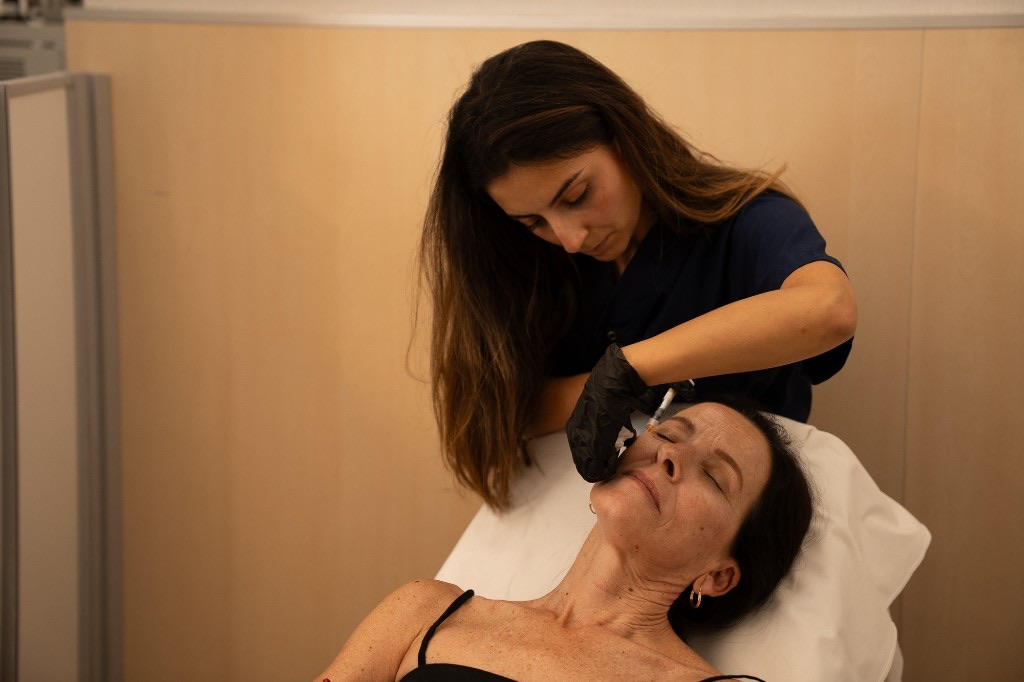
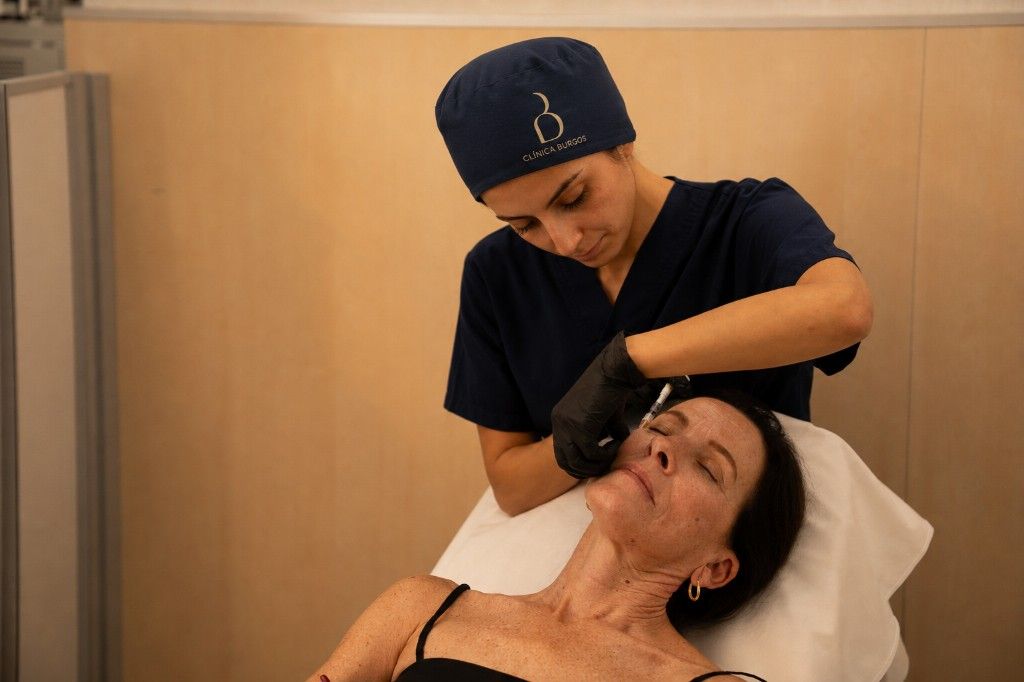
Update home SEO title and clinic photos on Quiénes somos.
Include Clínica Burgos in the Google result title, refresh estética/oftalmología images, and remove the dual photo strip from the about page.

diff --git a/src/pages/Doctora.tsx b/src/pages/Doctora.tsx
@@ -36,27 +36,6 @@ export function Doctora() {
         </div>
       </section>
 
-      <section className="section section-compact oft-pair-wrap">
-        <div className="shell oft-pair">
-          <figure>
-            <img
-              src="/images/dra-consulta.jpg"
-              alt="Dra. Teresa García Burgos en consulta, revisando un informe clínico"
-              loading="lazy"
-              decoding="async"
-            />
-          </figure>
-          <figure>
-            <img
-              src="/images/dra-exploracion.jpg"
-              alt="Exploración oftalmológica con lámpara de hendidura en Clínica Burgos, Alhaurín el Grande, Málaga"
-              loading="lazy"
-              decoding="async"
-            />
-          </figure>
-        </div>
-      </section>
-
       <section className="section section-cream">
         <div className="shell split-xl">
           <div className="panel-copy">
@@ -92,7 +71,7 @@ export function Doctora() {
         <div className="shell split-xl">
           <div className="panel-media tall">
             <img
-              src="/images/dra-estetica.jpg"
+              src="/images/dra-estetica.jpg?v=2"
               alt="Tratamiento de medicina estética facial en Clínica Burgos, Alhaurín el Grande, Málaga"
               loading="lazy"
               decoding="async"

diff --git a/index.html b/index.html
@@ -27,7 +27,7 @@
     <meta property="og:site_name" content="Clínica Burgos" />
     <meta
       property="og:title"
-      content="Oftalmología y Medicina Estética"
+      content="Clínica Burgos | Oftalmología y Medicina Estética"
     />
     <meta
       property="og:description"
@@ -35,7 +35,7 @@
     />
     <meta property="og:url" content="https://clinicaburgos.net/" />
     <meta property="og:image" content="https://clinicaburgos.net/images/espera.jpg" />
-    <title>Oftalmología y Medicina Estética</title>
+    <title>Clínica Burgos | Oftalmología y Medicina Estética</title>
   </head>
   <body>
     <div id="root"></div>

diff --git a/src/data/seo.ts b/src/data/seo.ts
@@ -11,7 +11,7 @@ export type SeoConfig = {
 export const seoByPath: Record<string, SeoConfig> = {
   "/": {
     path: "/",
-    title: "Oftalmología y Medicina Estética",
+    title: "Clínica Burgos | Oftalmología y Medicina Estética",
     description:
       "Clínica Burgos en Alhaurín el Grande (Málaga): oftalmólogo y medicina estética. Revisión oftalmológica, blefaroplastia, cataratas y rejuvenecimiento facial. Pide cita.",
     keywords:

diff --git a/src/pages/Oftalmologia.tsx b/src/pages/Oftalmologia.tsx
@@ -31,7 +31,7 @@ export function Oftalmologia() {
         <div className="shell split">
           <div className="panel-media panel-media-sm">
             <img
-              src="/images/oft-primera-consulta.jpg"
+              src="/images/oft-primera-consulta.jpg?v=2"
               alt="Primera consulta oftalmológica en Clínica Burgos, Alhaurín el Grande, Málaga"
               loading="lazy"
               decoding="async"
